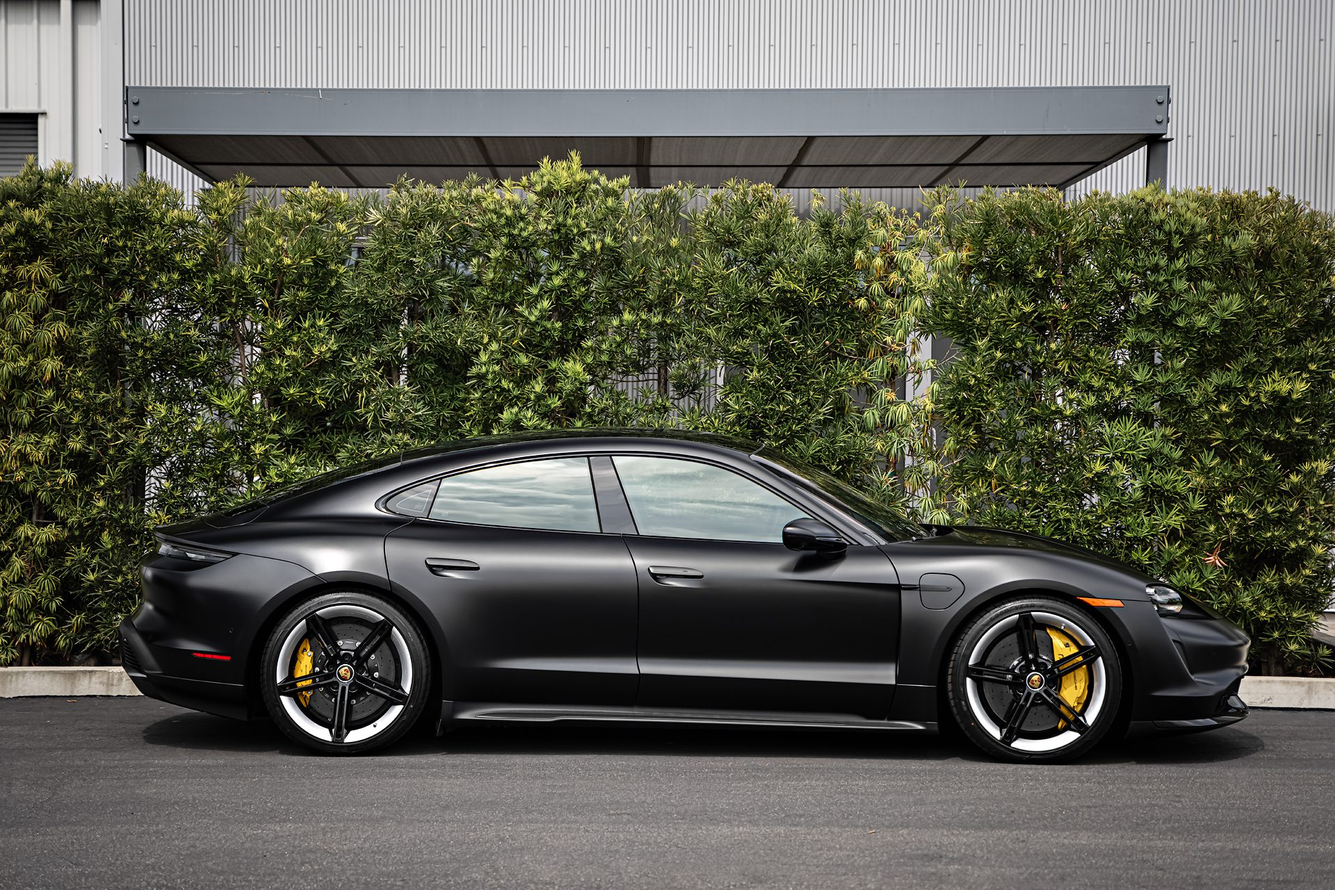
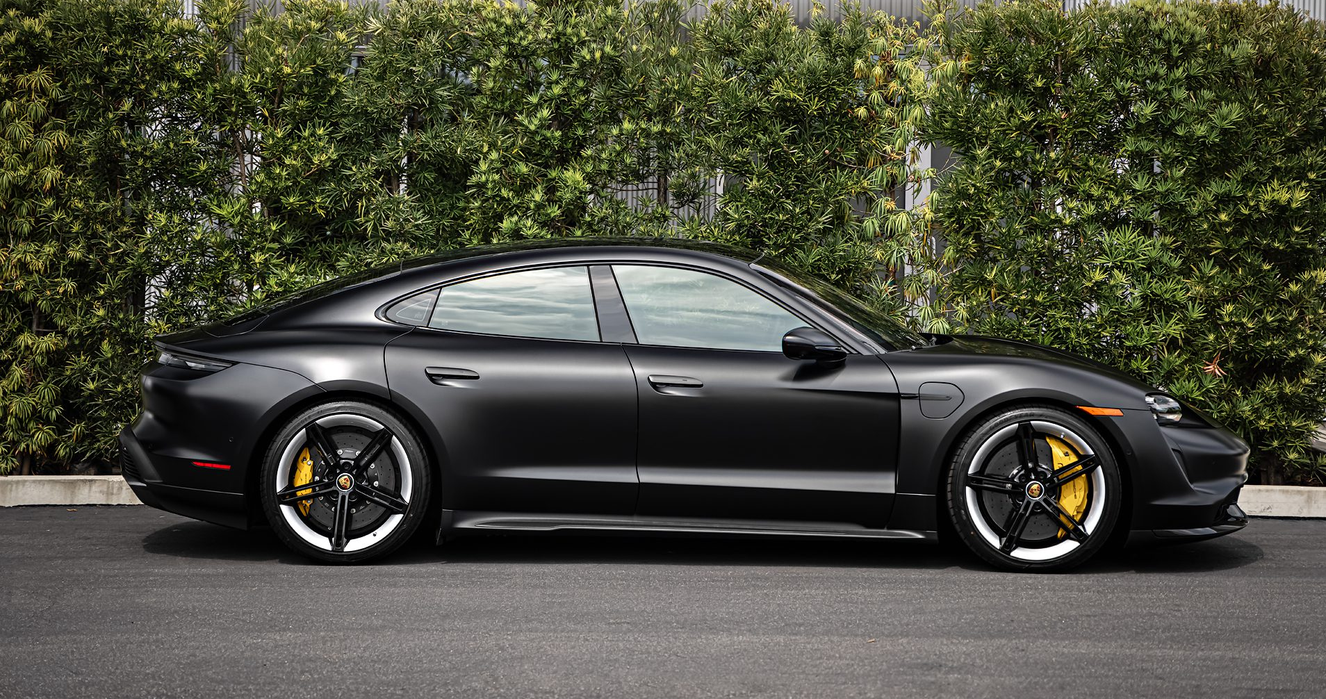
project1

diff --git a/gallerypage2/project1.html b/gallerypage2/project1.html
@@ -80,7 +80,7 @@
         </div>
 
         <div class="projectslide-img">
-          <img src="../src/img/gallery/projects/img2.jpg" />
+          <img src="../src/img/gallery/projects/img1.jpg" />
         </div>
       </section>
 

diff --git a/src/css/gallerypage2.css b/src/css/gallerypage2.css
@@ -18,7 +18,7 @@
 }
 
 .projectslide-img img {
-  width: 60%;
+  width: 56%;
   height: 100%;
   object-fit: cover;
 }
